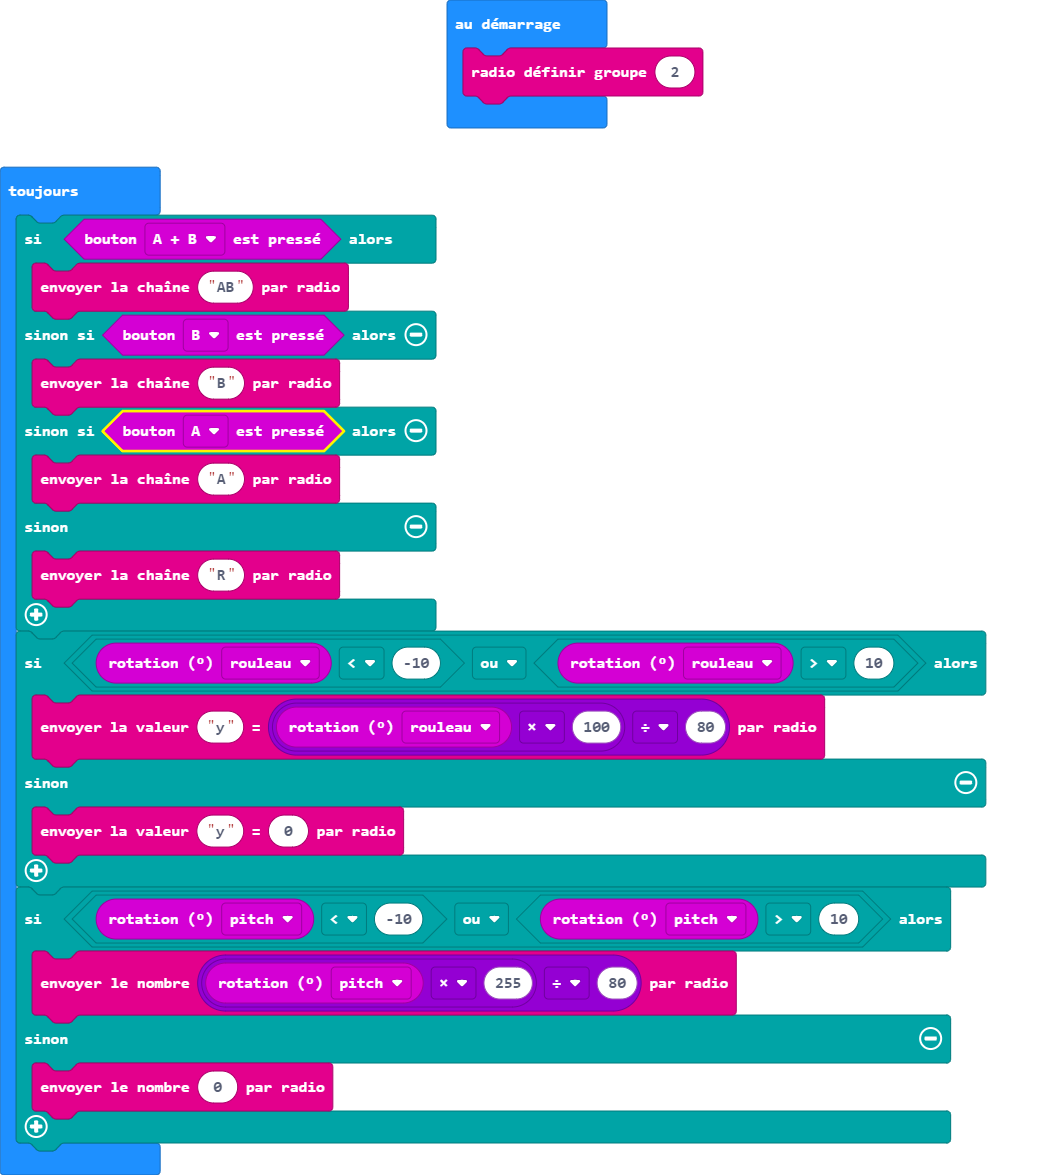
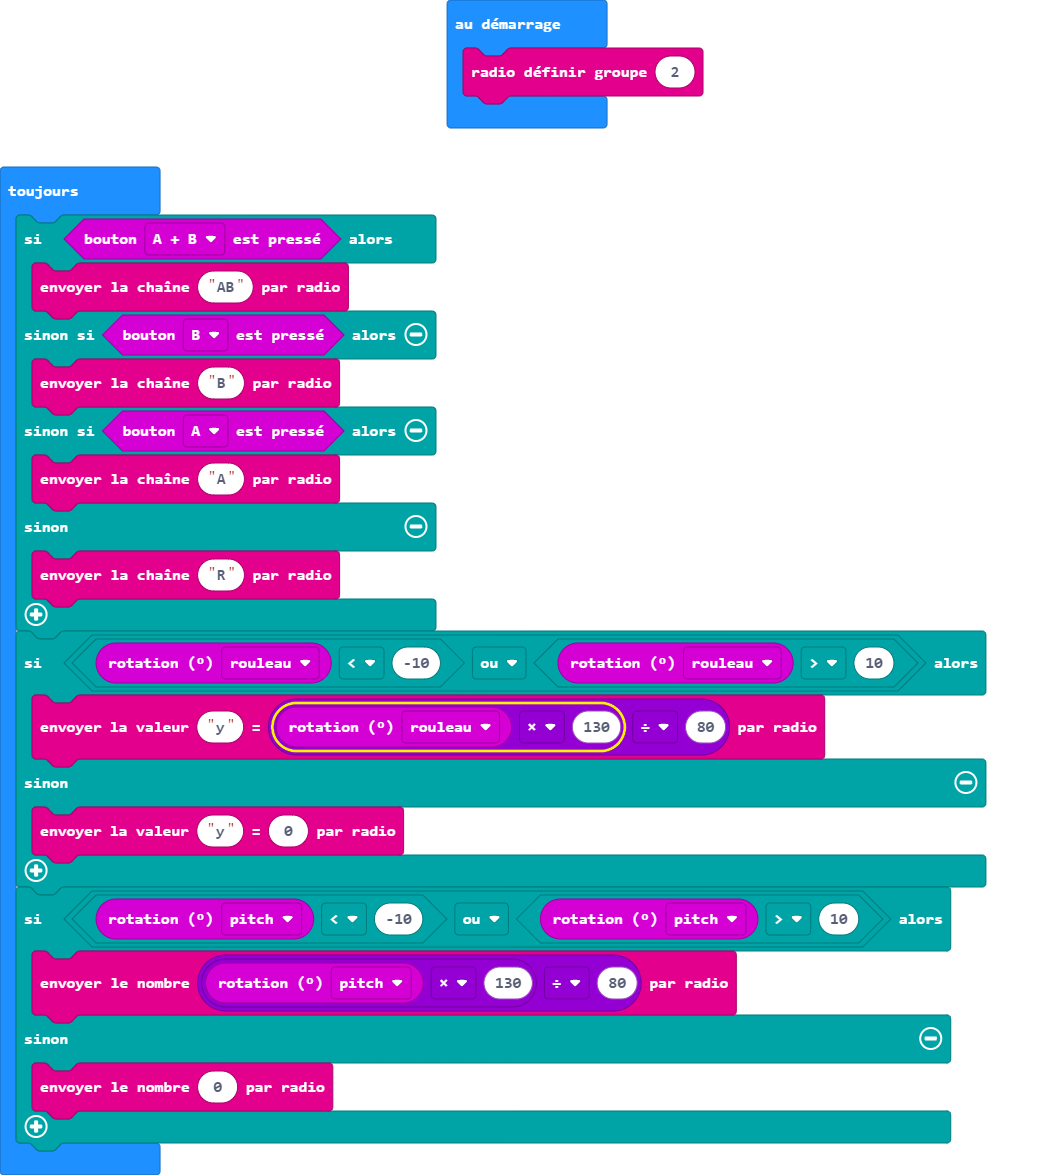
Mise à jour pxt.json, main.blocks, main.ts

Changed region(s): [[0.2466, 0.5821, 0.6166, 0.6434], [0.0925, 0.337, 0.3391, 0.3983]]

diff --git a/main.ts b/main.ts
@@ -10,12 +10,12 @@ basic.forever(function () {
         radio.sendString("R")
     }
     if (input.rotation(Rotation.Roll) < -10 || input.rotation(Rotation.Roll) > 10) {
-        radio.sendValue("y", input.rotation(Rotation.Roll) * 100 / 80)
+        radio.sendValue("y", input.rotation(Rotation.Roll) * 130 / 80)
     } else {
         radio.sendValue("y", 0)
     }
     if (input.rotation(Rotation.Pitch) < -10 || input.rotation(Rotation.Pitch) > 10) {
-        radio.sendNumber(input.rotation(Rotation.Pitch) * 255 / 80)
+        radio.sendNumber(input.rotation(Rotation.Pitch) * 130 / 80)
     } else {
         radio.sendNumber(0)
     }
